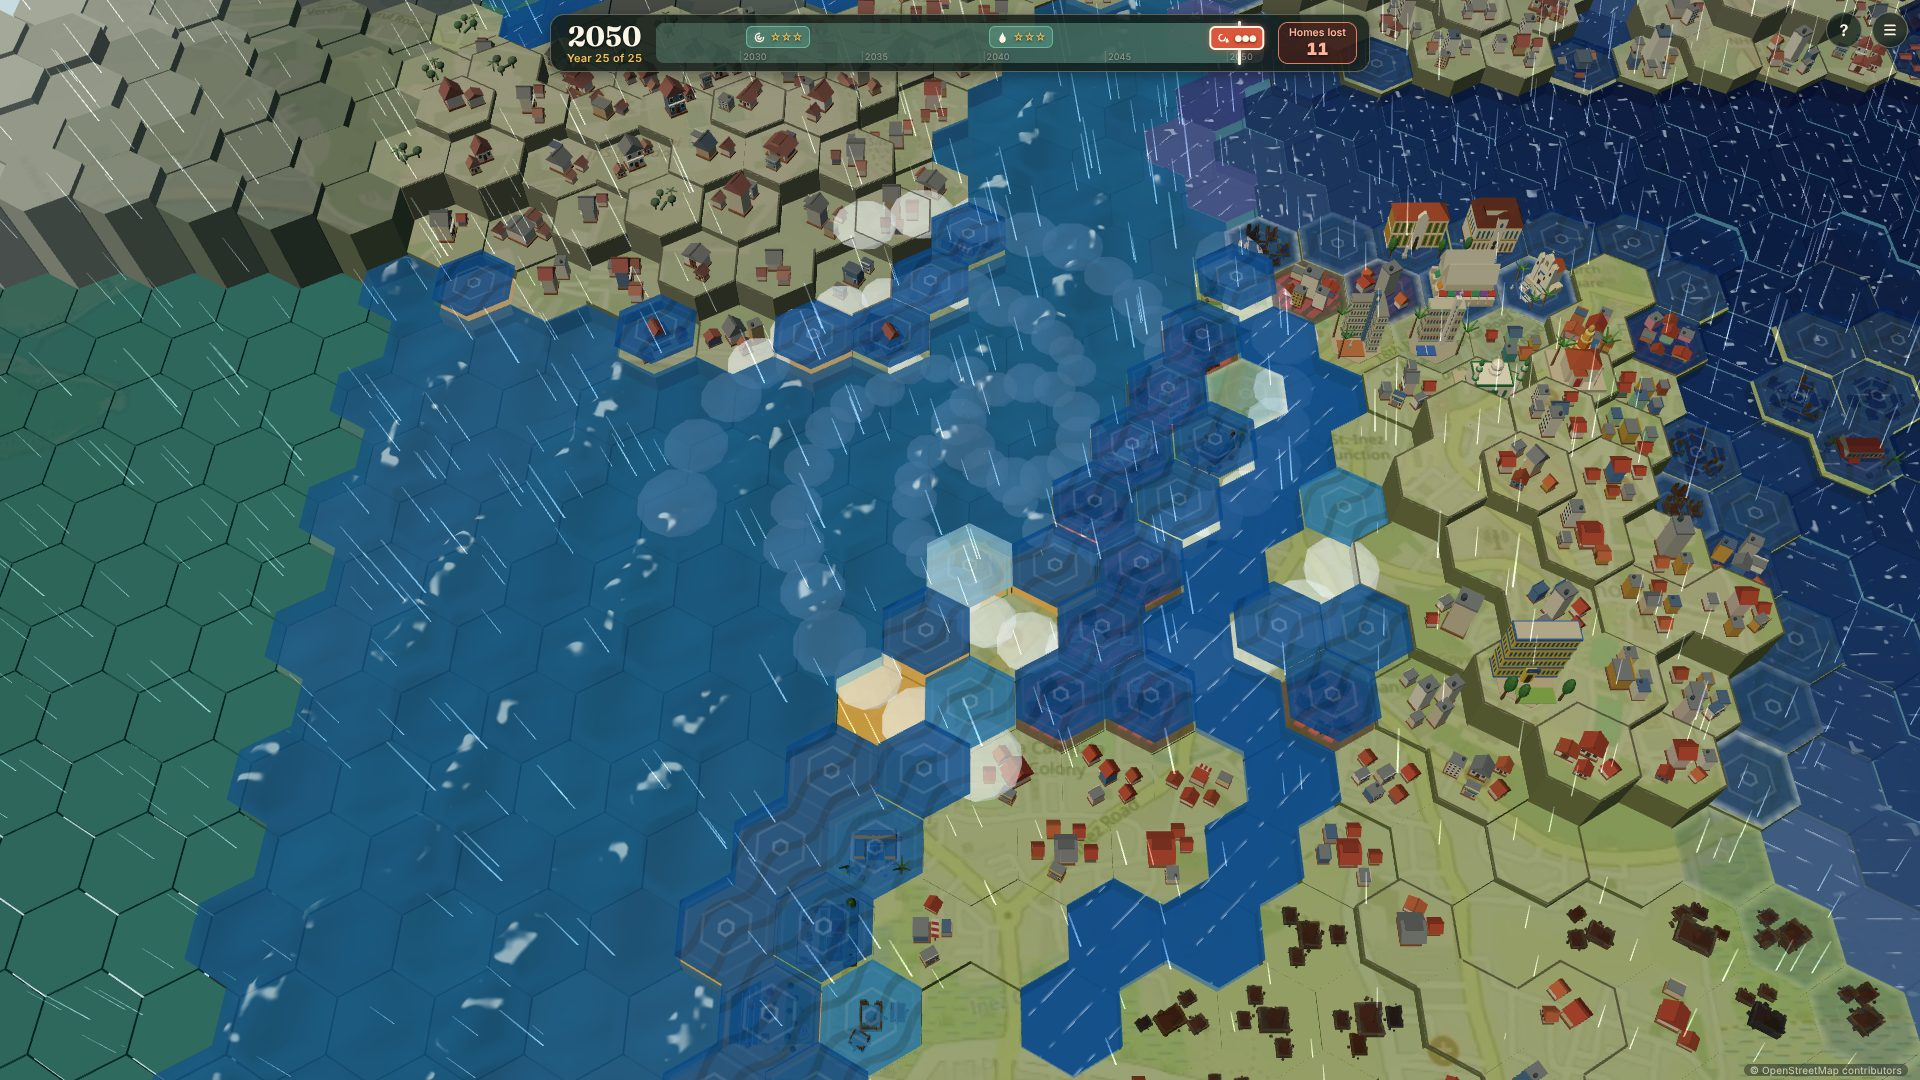
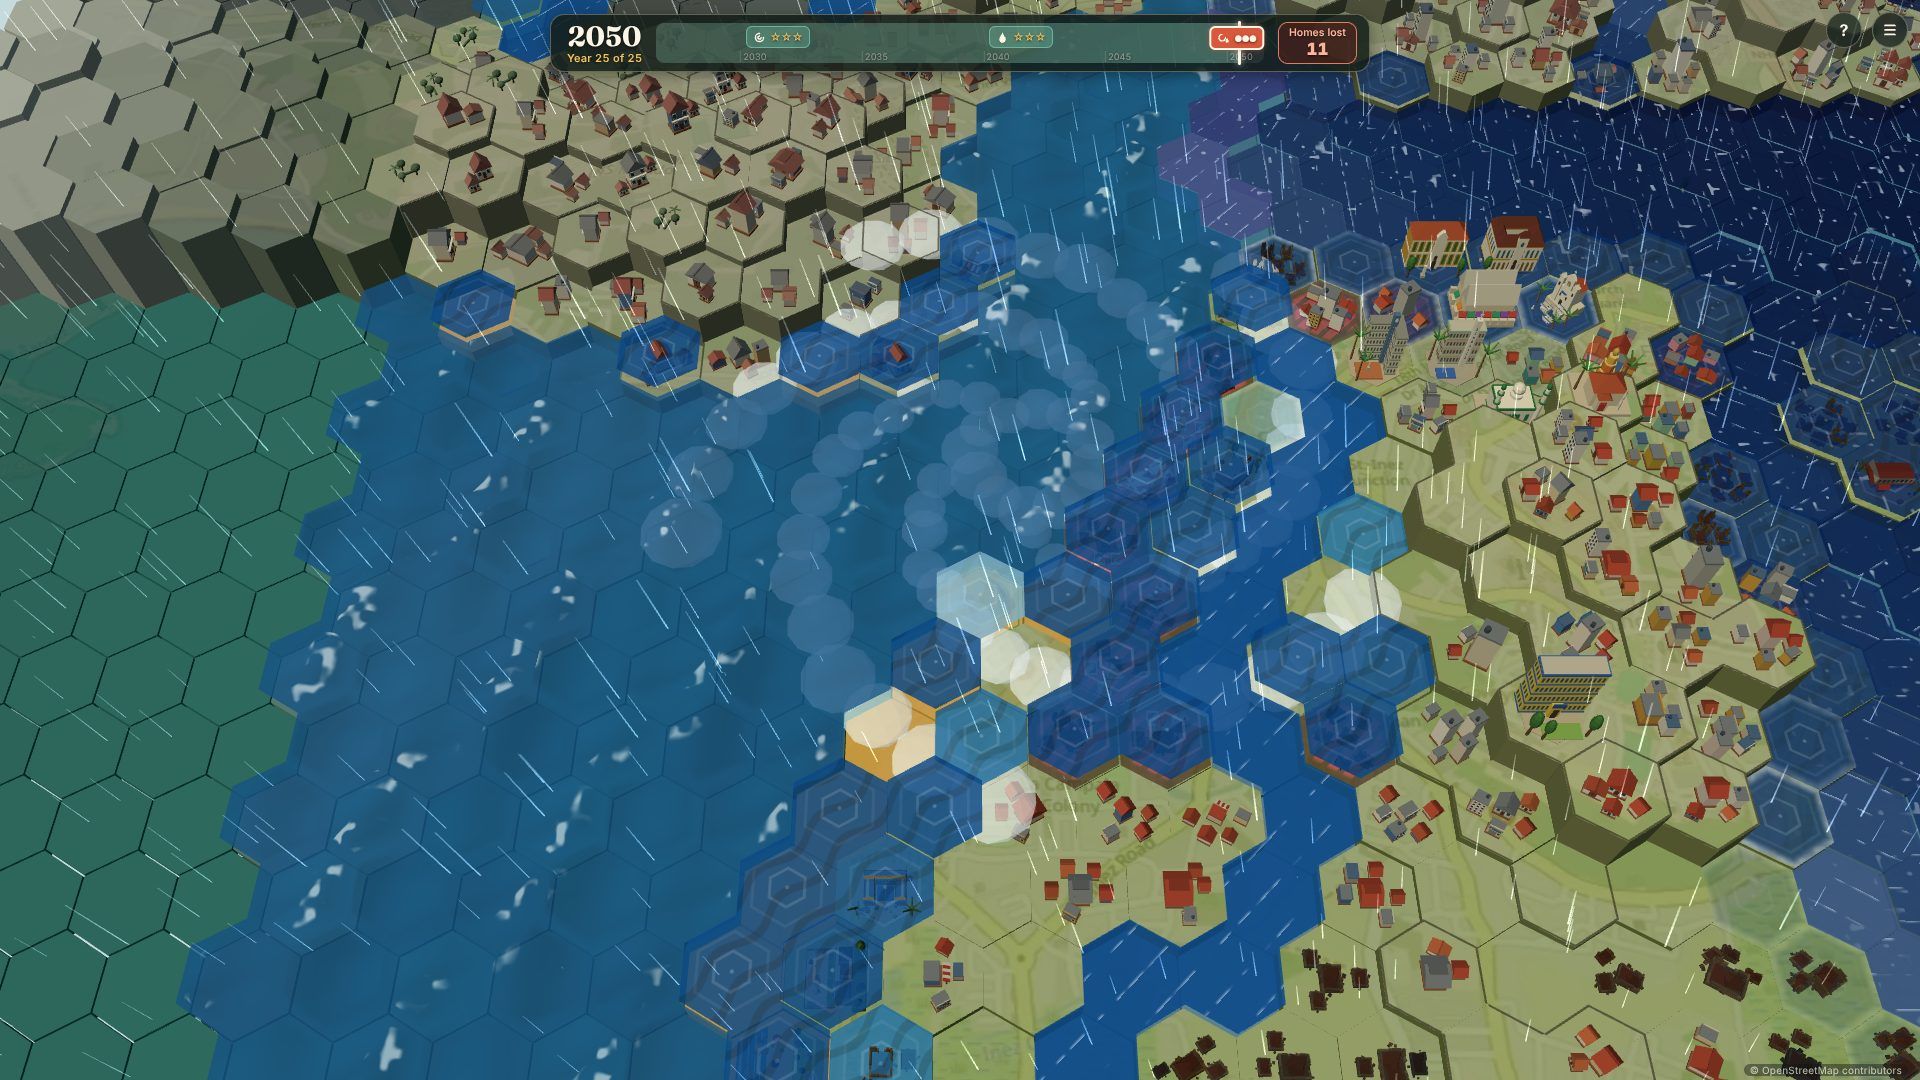
Section 23 QA: shots at both sizes after the review fixes (all pass)
Claude-Session: https://claude.ai/code/session_01CR8PN9tFYneT4rrWy2Y36p

diff --git a/docs/QA_REPORT.md b/docs/QA_REPORT.md
@@ -1985,7 +1985,7 @@ Branch `section-23-sheltered-centre`, off master `6af6ffb` (Section 22's merge; 
 | `tsc --noEmit`, `npm run test`, `npm run build` | Clean: tsc no errors; vitest 599 passed, 6 skipped (79 files) after the review's fixes; build clean. |
 | Preview equals resolution | `tests/exposure.test.ts` ("the heat equals the loss") and `tests/liveRisk.test.ts` pass with the shelter; `tests/section23.test.ts` checks heat, Homes at risk, cone (bands, area, meeting point), objective picks, the resolution, the drawn water and an old save, all clear of the 134 tiles in 2050. |
 | Bots, 200 seeds a style (mechanics touched) | Before and after in `docs/qa/section23/tuning-before.md` and `tuning-after.md`; no Section 22 target drifts, so nothing re-tuned (below). |
-| Targeted shots, 1366x768 and 1920x1080 (`tools/section23Shots.ts`) | RESULT_SHOTS23 |
+| Targeted shots, 1366x768 and 1920x1080 (`tools/section23Shots.ts`) | All pass at both sizes, no console errors, after the review's fixes: a dune goes down with no pop-up and no "+N homes safe"; the note beside a build outside the area reads "This is outside the area, so it doesn't count for the objective." (no count); the 2050 cone (2041), heat (2049) and the storm mid-way (2050) leave the 134 tiles clear (heat, Homes at risk, cone bands, area and meeting point 0; no water drawn; no home lost there). Homes at risk in 2049 on that run: 18. Shots: `build-no-popup`, `cone-2050`, `heat-2050`, `storm-2050`. |
 | Independent reviewer | No BLOCKER. MAJOR: the note beside a build outside the area still said "This protects N homes" (fixed: no count); docs not yet written (done). MINOR: a pre-Section-23 save in 2041–2049 could restore a 2050 row on a sheltered tile (fixed, with a test); two analysis tools built the 2050 storm without the shelter (fixed; `tools/panjimBots/sweep7.ts` left as it is: a Section 7 sweep of a 2.6 finale, not today's storm). NITs: dead `.build-float` selectors in two old tools (removed); a test that sheltered tiles always come with the place Help names (added). |
 | Not run (the full browser check, only on the owner's request) | walkthrough, test:labels, test:layout, test:maya, the other two sizes, the full playthroughs, axe, colour-blind copies. Real-GPU frame rates and Firefox/WebKit: not available here. |
 
